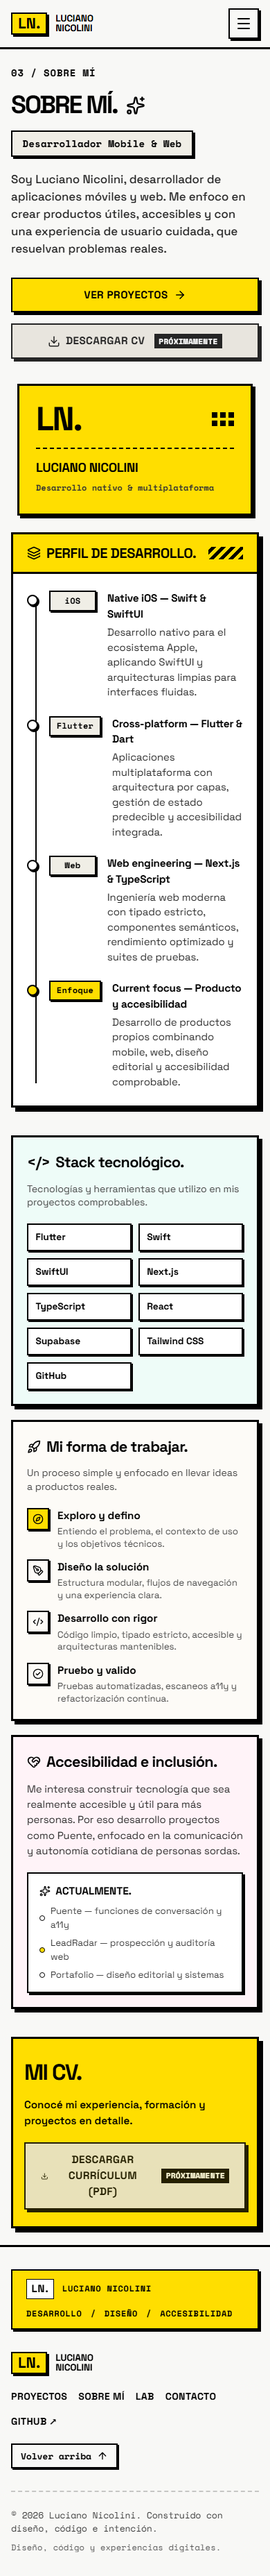
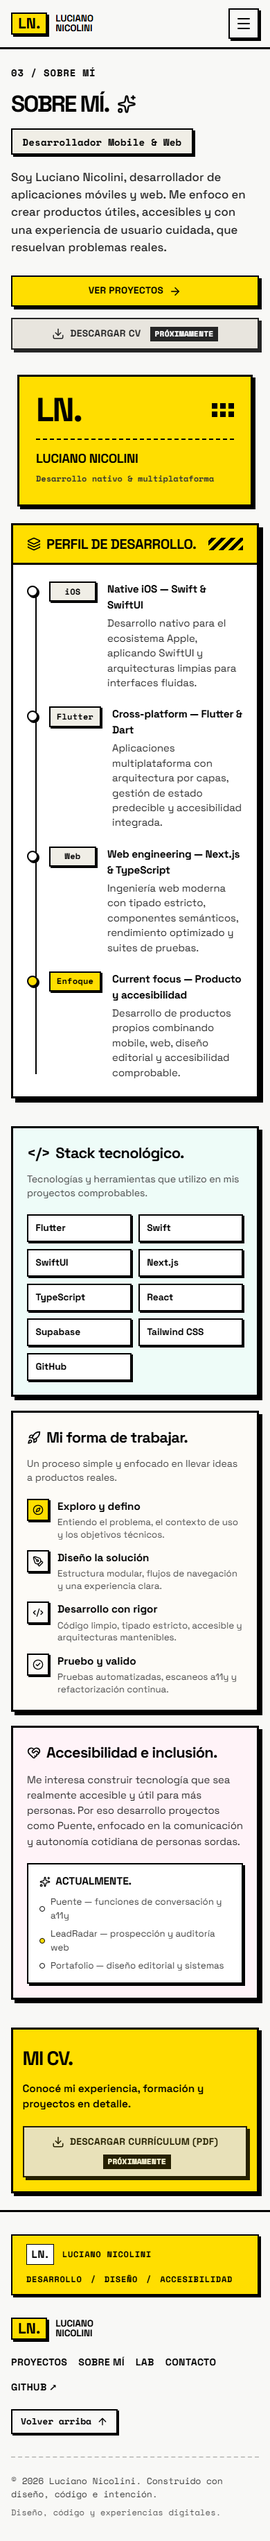
fix(ci): resolve 320px mobile reflow on about page and clarify release roadmap

diff --git a/src/components/about/about.module.css b/src/components/about/about.module.css
@@ -110,6 +110,8 @@
   color: var(--color-ink);
   text-decoration: none;
   cursor: pointer;
+  max-width: 100%;
+  box-sizing: border-box;
   transition:
     transform var(--motion-fast) var(--ease-out),
     box-shadow var(--motion-fast) var(--ease-out);
@@ -141,6 +143,8 @@
   color: var(--color-ink);
   text-decoration: none;
   cursor: pointer;
+  max-width: 100%;
+  box-sizing: border-box;
   transition:
     transform var(--motion-fast) var(--ease-out),
     box-shadow var(--motion-fast) var(--ease-out);
@@ -167,6 +171,9 @@
   color: var(--color-ink);
   opacity: 0.85;
   cursor: default;
+  max-width: 100%;
+  box-sizing: border-box;
+  flex-wrap: wrap;
 }
 
 .badgeSmall {
@@ -177,6 +184,7 @@
   font-weight: 700;
   padding: 0.15rem 0.4rem;
   margin-left: 0.35rem;
+  white-space: nowrap;
 }
 
 /* Typographic / Geometric Neo-brutalist Avatar */
@@ -669,6 +677,13 @@
   padding-left: 1.25rem;
 }
 
+.cvBannerRight {
+  display: flex;
+  align-items: center;
+  min-width: 0;
+  max-width: 100%;
+}
+
 /* Responsive adjustments */
 @media (max-width: 1024px) {
   .introLayout {
@@ -696,7 +711,9 @@
   }
 
   .headline {
-    font-size: clamp(2.25rem, 9vw, 3.5rem);
+    font-size: clamp(2rem, 8.5vw, 3.25rem);
+    max-width: 100%;
+    overflow-wrap: break-word;
   }
 
   .actions {
@@ -708,19 +725,44 @@
   .btnSecondary,
   .btnDisabled {
     justify-content: center;
+    width: 100%;
+    padding: 0.65rem 0.85rem;
+    font-size: 0.85rem;
+    text-align: center;
   }
 
   .cvBanner {
     flex-direction: column;
     align-items: stretch;
-    padding: 1.5rem 1rem;
+    padding: 1.25rem 0.85rem;
     gap: 1.25rem;
+    box-shadow: 4px 4px 0 var(--color-ink);
   }
 
   .cvBannerLeft {
     flex-direction: column;
     align-items: flex-start;
     gap: 0.75rem;
+    width: 100%;
+    min-width: 0;
+    max-width: 100%;
+  }
+
+  .cvBannerRight {
+    width: 100%;
+    min-width: 0;
+    max-width: 100%;
+  }
+
+  .cvTitle {
+    font-size: clamp(1.75rem, 6vw, 2.5rem);
+    max-width: 100%;
+    overflow-wrap: break-word;
+  }
+
+  .cvDesc {
+    max-width: 100%;
+    overflow-wrap: break-word;
   }
 
   .cvHazard {

diff --git a/ROADMAP.md b/ROADMAP.md
@@ -1,20 +1,20 @@
 # Roadmap
 
-| Phase | Scope                                                     | Status                                                                                                         |
-| ----- | --------------------------------------------------------- | -------------------------------------------------------------------------------------------------------------- |
-| 00    | Repository                                                | Original history preserved; local technical foundation synchronized to GitHub                                  |
-| 01    | Visual identity                                           | Complete                                                                                                       |
-| 02    | Tool selection                                            | Complete                                                                                                       |
-| 03    | Documentation and local skills                            | Complete                                                                                                       |
-| 04    | Home design                                               | Approved concept (desktop/mobile)                                                                              |
-| 05    | Secondary designs and project audit                       | Concepts approved; project audit complete; authentic assets pending                                            |
-| 06    | Agent setup and scaffold                                  | Technical foundation hardened and validated; see `docs/BOOTSTRAP_HARDENING_REPORT.md`                          |
-| 06.1  | Design system foundation                                  | Implemented and validated; preview and screenshots documented in `docs/DESIGN_SYSTEM_IMPLEMENTATION_REPORT.md` |
-| 07    | Home and shared components                                | Complete; see `docs/HOME_IMPLEMENTATION_REPORT.md` and `docs/NAVBAR_HERO_IMPLEMENTATION_REPORT.md`             |
-| 08    | Work, case studies, About, and Contact branch integration | Complete; see `docs/INTEGRATION_REPORT.md`                                                                     |
-| 09    | Developer Lab and creative-coding experiments             | Complete; see `docs/DEVELOPER_LAB_IMPLEMENTATION_REPORT.md`                                                    |
-| 09.5  | Motion engineering and performance refinement             | Complete; see `docs/MOTION_ENGINEERING_REPORT.md`                                                              |
-| 09.9  | Final quality audit and performance optimization          | Complete; see `docs/FINAL_QUALITY_AUDIT_REPORT.md`                                                             |
-| 10    | CI, testing and launch                                    | Complete; see `docs/RELEASE_READINESS_REPORT.md` (launch pending owner configuration and deployment)           |
+| Phase | Scope                                                     | Status                                                                                                                             |
+| ----- | --------------------------------------------------------- | ---------------------------------------------------------------------------------------------------------------------------------- |
+| 00    | Repository                                                | Original history preserved; local technical foundation synchronized to GitHub                                                      |
+| 01    | Visual identity                                           | Complete                                                                                                                           |
+| 02    | Tool selection                                            | Complete                                                                                                                           |
+| 03    | Documentation and local skills                            | Complete                                                                                                                           |
+| 04    | Home design                                               | Approved concept (desktop/mobile)                                                                                                  |
+| 05    | Secondary designs and project audit                       | Concepts approved; project audit complete; authentic assets pending                                                                |
+| 06    | Agent setup and scaffold                                  | Technical foundation hardened and validated; see `docs/BOOTSTRAP_HARDENING_REPORT.md`                                              |
+| 06.1  | Design system foundation                                  | Implemented and validated; preview and screenshots documented in `docs/DESIGN_SYSTEM_IMPLEMENTATION_REPORT.md`                     |
+| 07    | Home and shared components                                | Complete; see `docs/HOME_IMPLEMENTATION_REPORT.md` and `docs/NAVBAR_HERO_IMPLEMENTATION_REPORT.md`                                 |
+| 08    | Work, case studies, About, and Contact branch integration | Complete; see `docs/INTEGRATION_REPORT.md`                                                                                         |
+| 09    | Developer Lab and creative-coding experiments             | Complete; see `docs/DEVELOPER_LAB_IMPLEMENTATION_REPORT.md`                                                                        |
+| 09.5  | Motion engineering and performance refinement             | Complete; see `docs/MOTION_ENGINEERING_REPORT.md`                                                                                  |
+| 09.9  | Final quality audit and performance optimization          | Complete; see `docs/FINAL_QUALITY_AUDIT_REPORT.md`                                                                                 |
+| 10    | CI, testing and release preparation                       | Release preparation and CI validation complete; public launch pending owner configuration (see `docs/RELEASE_READINESS_REPORT.md`) |
 
-Owner approved the desktop and mobile design concepts on 2026-11-19. Visual approval does not certify mockup content. Phase 01.1 hardened the scaffold, ran production accessibility and Lighthouse baselines, verified both browser MCP workflows, and synchronized the local work with the official repository. Phase 02 implemented reusable design tokens and primitives, a development-only preview, responsive and accessibility checks, and captured screenshots for human review. Phase 03.1 implemented and validated the Navbar, responsive mobile navigation, Hero section, and Technology strip with full-document accessibility and responsive reflow; documented in `docs/NAVBAR_HERO_IMPLEMENTATION_REPORT.md`. Phase 04 completed the full Home implementation: Selected Work with authentic project captures (Puente, DolarTo, StitchHub, LeadRadar, Rial Electrónica, ScopeGuard), About preview, Developer Lab interactive preview (Brutalist Button Builder), closing Contact section, compact editorial Footer, and navigation integration. Phase 04.1 hardened the production contact configuration (removed test fixture leak, added noninteractive status notice and unconfigured channel guards), refactored Selected Work into modular presentation cards (`FeaturedMobileCard`, `FeaturedWideCard`, `CompactProjectCard`), reconciled factual project claims, audited asset provenance, and validated all quality gates via `npm run check`. Phase 08 integrated the independent implementations of Work & Project Detail (`feature/work-pages`) and About & Contact (`feature/about-contact`) into `integration/portfolio-pages`: unified navigation and footer architectures (`SiteNavigation`, `SiteFooter`), connected all pages and case studies with active state indicators, corrected mixed-language UI strings, configured safe production `metadataBase` resolution, and validated all quality gates (unit tests, E2E suites, Knip, build, Lighthouse). Phase 09 implemented and validated the dedicated Developer Lab (`/[locale]/lab`), comprising six accessible, editorial neo-brutalist interactive experiments (Brutalist Button Builder, Spring Physics, Typography, Design Tokens, FLIP Layout, and SVG Animations) with 100% WCAG 2.2 AA compliance, zero Axe violations, and full responsive reflow across 6 viewports; documented in `docs/DEVELOPER_LAB_IMPLEMENTATION_REPORT.md`. Phase 09.1 conducted the UX and performance review: resolved premature category filter scrolling via decoupled state and `requestAnimationFrame`, added `scroll-margin-top` for sticky header clearance, enforced `prefers-reduced-motion` compliance, profiled JavaScript bundles and hydration trade-offs, measured production Lighthouse metrics (Perf 79-81, A11y 100, BP 100, SEO 91, LCP 1.3-1.4s, CLS 0), and visually verified all experiment screenshots against approved references; documented in `docs/DEVELOPER_LAB_IMPLEMENTATION_REPORT.md`. Developer Lab Integration & Global Stability merged `origin/feature/developer-lab` into `integration/portfolio-complete`, verified global architecture consistency across all 26 static routes, unified `SiteNavigation` and `SiteFooter` routing, added cross-page navigation regression tests, verified production SEO metadata and canonicals, audited performance across routes (Work: Perf 99, About: Perf 100, Contact: Perf 96), and passed all quality gates (`npm run check`); documented in `docs/FINAL_INTEGRATION_REPORT.md`. Phase 09.5 (Motion Engineering & Performance Refinement) optimized main-thread execution in Developer Lab by suspending offscreen SVG animation loops via `IntersectionObserver` (reducing hydration TBT from 1,370ms to ~400–750ms), accelerated Home LCP discovery with `fetchPriority="high"`, added tactile neo-brutalist active and hover micro-interactions across navigation and project cards with zero layout shift, enforced global `prefers-reduced-motion` fallbacks, and passed all quality gates; documented in `docs/MOTION_ENGINEERING_REPORT.md`. Phase 09.9 (Final Quality Audit & Performance Optimization) conducted controlled 3-run median performance benchmarks across all 6 representative routes, hardened canonical domain resolution (`src/lib/site-url.ts`), generated native dynamic XML sitemaps and indexation policies (`src/app/sitemap.ts`, `src/app/robots.ts`), added OpenGraph and Twitter preview metadata, documented the environment variable contract in `.env.example`, verified zero npm vulnerabilities and zero Knip dead code, audited external link security (`rel="noopener noreferrer"`), recorded launch blockers for unverified assets, and verified full quality gates (`npm run check`); documented in `docs/FINAL_QUALITY_AUDIT_REPORT.md`. Phase 10 (Release Readiness & Deployment Preparation) established the release branch `release/portfolio-v1`, hardened canonical URL resolution contracts with strict protocol sanitation and production localhost rejection, locked the XML sitemap `lastModified` timestamp to a stable release date (`2026-11-21`) to prevent crawl churn, extended the CI workflow triggers to include `release/**` branches, verified 100% test passes across unit, E2E, and design-system preview suites with zero ESLint/TypeScript/Knip/vulnerability errors, documented the Vercel deployment and post-launch smoke-test protocols, and confirmed the Go-for-Deployment recommendation pending owner asset configuration; documented in `docs/RELEASE_READINESS_REPORT.md`. See `docs/RELEASE_READINESS_REPORT.md`, `docs/FINAL_QUALITY_AUDIT_REPORT.md`, `docs/MOTION_ENGINEERING_REPORT.md`, `docs/FINAL_INTEGRATION_REPORT.md`, `docs/DEVELOPER_LAB_IMPLEMENTATION_REPORT.md`, `docs/INTEGRATION_REPORT.md`, `docs/HOME_IMPLEMENTATION_REPORT.md`, `docs/NAVBAR_HERO_IMPLEMENTATION_REPORT.md`, `docs/DESIGN_SYSTEM_IMPLEMENTATION_REPORT.md`, `docs/BOOTSTRAP_HARDENING_REPORT.md`, `references/README.md` and `docs/TOOLING.md`.
+Owner approved the desktop and mobile design concepts on 2026-11-19. Visual approval does not certify mockup content. Phase 01.1 hardened the scaffold, ran production accessibility and Lighthouse baselines, verified both browser MCP workflows, and synchronized the local work with the official repository. Phase 02 implemented reusable design tokens and primitives, a development-only preview, responsive and accessibility checks, and captured screenshots for human review. Phase 03.1 implemented and validated the Navbar, responsive mobile navigation, Hero section, and Technology strip with full-document accessibility and responsive reflow; documented in `docs/NAVBAR_HERO_IMPLEMENTATION_REPORT.md`. Phase 04 completed the full Home implementation: Selected Work with authentic project captures (Puente, DolarTo, StitchHub, LeadRadar, Rial Electrónica, ScopeGuard), About preview, Developer Lab interactive preview (Brutalist Button Builder), closing Contact section, compact editorial Footer, and navigation integration. Phase 04.1 hardened the production contact configuration (removed test fixture leak, added noninteractive status notice and unconfigured channel guards), refactored Selected Work into modular presentation cards (`FeaturedMobileCard`, `FeaturedWideCard`, `CompactProjectCard`), reconciled factual project claims, audited asset provenance, and validated all quality gates via `npm run check`. Phase 08 integrated the independent implementations of Work & Project Detail (`feature/work-pages`) and About & Contact (`feature/about-contact`) into `integration/portfolio-pages`: unified navigation and footer architectures (`SiteNavigation`, `SiteFooter`), connected all pages and case studies with active state indicators, corrected mixed-language UI strings, configured safe production `metadataBase` resolution, and validated all quality gates (unit tests, E2E suites, Knip, build, Lighthouse). Phase 09 implemented and validated the dedicated Developer Lab (`/[locale]/lab`), comprising six accessible, editorial neo-brutalist interactive experiments (Brutalist Button Builder, Spring Physics, Typography, Design Tokens, FLIP Layout, and SVG Animations) with 100% WCAG 2.2 AA compliance, zero Axe violations, and full responsive reflow across 6 viewports; documented in `docs/DEVELOPER_LAB_IMPLEMENTATION_REPORT.md`. Phase 09.1 conducted the UX and performance review: resolved premature category filter scrolling via decoupled state and `requestAnimationFrame`, added `scroll-margin-top` for sticky header clearance, enforced `prefers-reduced-motion` compliance, profiled JavaScript bundles and hydration trade-offs, measured production Lighthouse metrics (Perf 79-81, A11y 100, BP 100, SEO 91, LCP 1.3-1.4s, CLS 0), and visually verified all experiment screenshots against approved references; documented in `docs/DEVELOPER_LAB_IMPLEMENTATION_REPORT.md`. Developer Lab Integration & Global Stability merged `origin/feature/developer-lab` into `integration/portfolio-complete`, verified global architecture consistency across all 26 static routes, unified `SiteNavigation` and `SiteFooter` routing, added cross-page navigation regression tests, verified production SEO metadata and canonicals, audited performance across routes (Work: Perf 99, About: Perf 100, Contact: Perf 96), and passed all quality gates (`npm run check`); documented in `docs/FINAL_INTEGRATION_REPORT.md`. Phase 09.5 (Motion Engineering & Performance Refinement) optimized main-thread execution in Developer Lab by suspending offscreen SVG animation loops via `IntersectionObserver` (reducing hydration TBT from 1,370ms to ~400–750ms), accelerated Home LCP discovery with `fetchPriority="high"`, added tactile neo-brutalist active and hover micro-interactions across navigation and project cards with zero layout shift, enforced global `prefers-reduced-motion` fallbacks, and passed all quality gates; documented in `docs/MOTION_ENGINEERING_REPORT.md`. Phase 09.9 (Final Quality Audit & Performance Optimization) conducted controlled 3-run median performance benchmarks across all 6 representative routes, hardened canonical domain resolution (`src/lib/site-url.ts`), generated native dynamic XML sitemaps and indexation policies (`src/app/sitemap.ts`, `src/app/robots.ts`), added OpenGraph and Twitter preview metadata, documented the environment variable contract in `.env.example`, verified zero npm vulnerabilities and zero Knip dead code, audited external link security (`rel="noopener noreferrer"`), recorded launch blockers for unverified assets, and verified full quality gates (`npm run check`); documented in `docs/FINAL_QUALITY_AUDIT_REPORT.md`. Phase 10 (Release Readiness & Deployment Preparation) established the release branch `release/portfolio-v1`, hardened canonical URL resolution contracts with strict protocol sanitation and production localhost rejection, locked the XML sitemap `lastModified` timestamp to a stable release date (`2026-11-21`) to prevent crawl churn, extended the CI workflow triggers to include `release/**` branches, verified 100% test passes across unit, E2E, and design-system preview suites with zero ESLint/TypeScript/Knip/vulnerability errors, documented the Vercel deployment and post-launch smoke-test protocols, and confirmed the Go-for-Deployment recommendation pending owner asset configuration; documented in `docs/RELEASE_READINESS_REPORT.md`. Phase 10.1 (Release CI & Mobile Reflow Hardening) resolved a 320px responsive reflow overflow on `/es/about` observed in GitHub Actions Ubuntu runners by enforcing `box-sizing: border-box`, `max-width: 100%`, `flex-wrap: wrap`, and compact mobile padding on `.btnDisabled` and `.cvBanner`, verified 100% test passes across Linux and Windows environments, and distinguished technical release readiness from owner-gated public launch. See `docs/RELEASE_READINESS_REPORT.md`, `docs/FINAL_QUALITY_AUDIT_REPORT.md`, `docs/MOTION_ENGINEERING_REPORT.md`, `docs/FINAL_INTEGRATION_REPORT.md`, `docs/DEVELOPER_LAB_IMPLEMENTATION_REPORT.md`, `docs/INTEGRATION_REPORT.md`, `docs/HOME_IMPLEMENTATION_REPORT.md`, `docs/NAVBAR_HERO_IMPLEMENTATION_REPORT.md`, `docs/DESIGN_SYSTEM_IMPLEMENTATION_REPORT.md`, `docs/BOOTSTRAP_HARDENING_REPORT.md`, `references/README.md` and `docs/TOOLING.md`.

diff --git a/docs/RELEASE_READINESS_REPORT.md b/docs/RELEASE_READINESS_REPORT.md
@@ -143,6 +143,9 @@ The repository continuous integration workflow (`.github/workflows/ci.yml`) has 
 | Playwright DS Preview | `npm run test:preview` | 27.9s | **5/5 tests pass** |
 | Security Audit | `npm audit` | 1.2s | **0 vulnerabilities** |
 
+> [!NOTE]
+> In Phase 10.1, a 320px responsive reflow overflow on `/es/about` (which occurred on Ubuntu GitHub Actions runners due to font rendering metric variances) was resolved by setting `box-sizing: border-box`, `max-width: 100%`, `flex-wrap: wrap`, and compact mobile padding on `.btnDisabled` and `.cvBanner`. All 21 E2E tests, 5 preview tests, and Lighthouse assertions pass across Linux and Windows.
+
 ---
 
 ## 7. Content Review Findings
